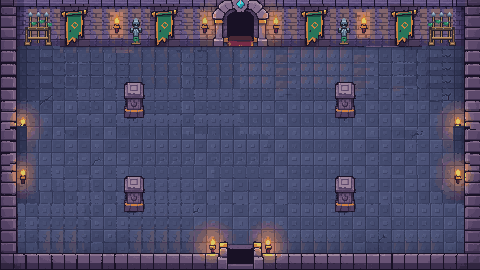
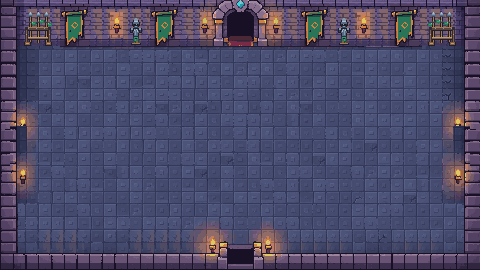
Barracks round 2: no pillars, floor re-laid on one even grid from the room's own clean tiles; spec v2, validator PASS
Kody rejected round 1: no pillars with Lancers charging around, and the floor looked odd.

Claude-Session: https://claude.ai/code/session_01G7SZaVSxHd55Ay2wBdWwQz

diff --git a/studio/reliability/barracks/make_barracks.py b/studio/reliability/barracks/make_barracks.py
@@ -4,7 +4,7 @@ Inputs (refs/, fetched from Sprite Drop for task 28e60182 and checked by sha256)
   siege_room_1x.png  33b43b24  0afb75dc...   bare floor that replaces the guard room's carpet strip
   lance_rack.png     f0e12503  cf358438...   prop, 28x34
   armor_stand.png    49efabe4  111fcc16...   prop, 14x28
-No image generation. Only the north wall band (x17-207, x275-464, y0-45) changes besides the carpet strip.
+No image generation. Round 2 also re-lays the open floor from this room's own clean tiles (no pillars).
     python3 make_barracks.py   -> out/barracks_1x.png (+ 2x preview)
 """
 import hashlib, os
@@ -24,6 +24,33 @@ rack, stand = ref('lance_rack.png', 'RGBA'), ref('armor_stand.png', 'RGBA')
 img = guard.copy()
 # 1. carpet strip -> the siege room's bare floor, pixel for pixel
 img[46:215, 225:258] = siege[46:215, 225:258]
+# 1b. (Kody 2026-11-17, round 2: "don't want pillars in here", "the floor looks a little odd")
+#     Re-lay the open floor x38-442, y49-229 on one even grid from clean floor tiles of this same room:
+#     no pillars, no rust stains, no half-shifted tiles. Edges, torch glow and wall shadow keep their pixels.
+src = img.copy()
+POOL_X = [51, 64, 77, 90, 155, 168, 274, 287, 300, 313, 365, 378, 391, 404]   # clean 13 px columns (no pillar, no glow)
+POOL_Y = [100, 113, 126, 139, 152, 165, 178]
+warm = lambda c: float((c[..., 0].astype(int) - c[..., 2].astype(int)).mean())
+pool = [src[y:y + 13, x:x + 13].copy() for x in POOL_X for y in POOL_Y]
+w = np.array([warm(c) for c in pool]); pool = [c for c, v in zip(pool, w) if v <= np.median(w) + 4]
+def fit(c, h, wd):          # 13x13 tile -> 12 high or 14 wide by dropping or repeating its middle row/column
+    if h < 13: c = np.delete(c, 6, 0)
+    if wd > 13: c = np.insert(c, 6, c[:, 6], 1)
+    return c
+XS = list(range(38, 234, 13)) + list(range(247, 443, 13))      # 38..233 | 233..247 centre | 247..442
+if XS[-1] != 442: XS.append(442)
+XS = sorted(set(XS))
+YS = [49, 62, 75, 88, 100, 113, 126, 139, 152, 165, 178, 191, 203, 216, 229]
+rng = np.random.default_rng(7); last = {}
+glow = (src[..., 0].astype(int) - src[..., 2].astype(int)) > 0
+glow[:200] = False; glow[:, :180] = False; glow[:, 300:] = False     # only the two south-door torches light this area
+for j in range(len(YS) - 1):
+    for i in range(len(XS) - 1):
+        x0, x1, y0, y1 = XS[i], XS[i + 1], YS[j], YS[j + 1]
+        if glow[y0:y1, x0:x1].any(): continue                          # torch-lit tiles stay as drawn
+        k = rng.integers(len(pool))
+        while k in (last.get((i - 1, j)), last.get((i, j - 1))): k = rng.integers(len(pool))
+        last[(i, j)] = k; img[y0:y1, x0:x1] = fit(pool[k], y1 - y0, x1 - x0)
 # 2. banners: red fabric -> Lancer green (the pennant greens of the approved lance rack); gold trim and pole unchanged
 BANNERS = [60, 150, 300, 390]            # x of each 30 px banner, y 4-45 (rooms/make_rooms.py)
 RECOLOR = {(0x77, 0x2b, 0x47): (0x28, 0x75, 0x5a), (0x4a, 0x28, 0x35): (0x18, 0x4d, 0x40)}
